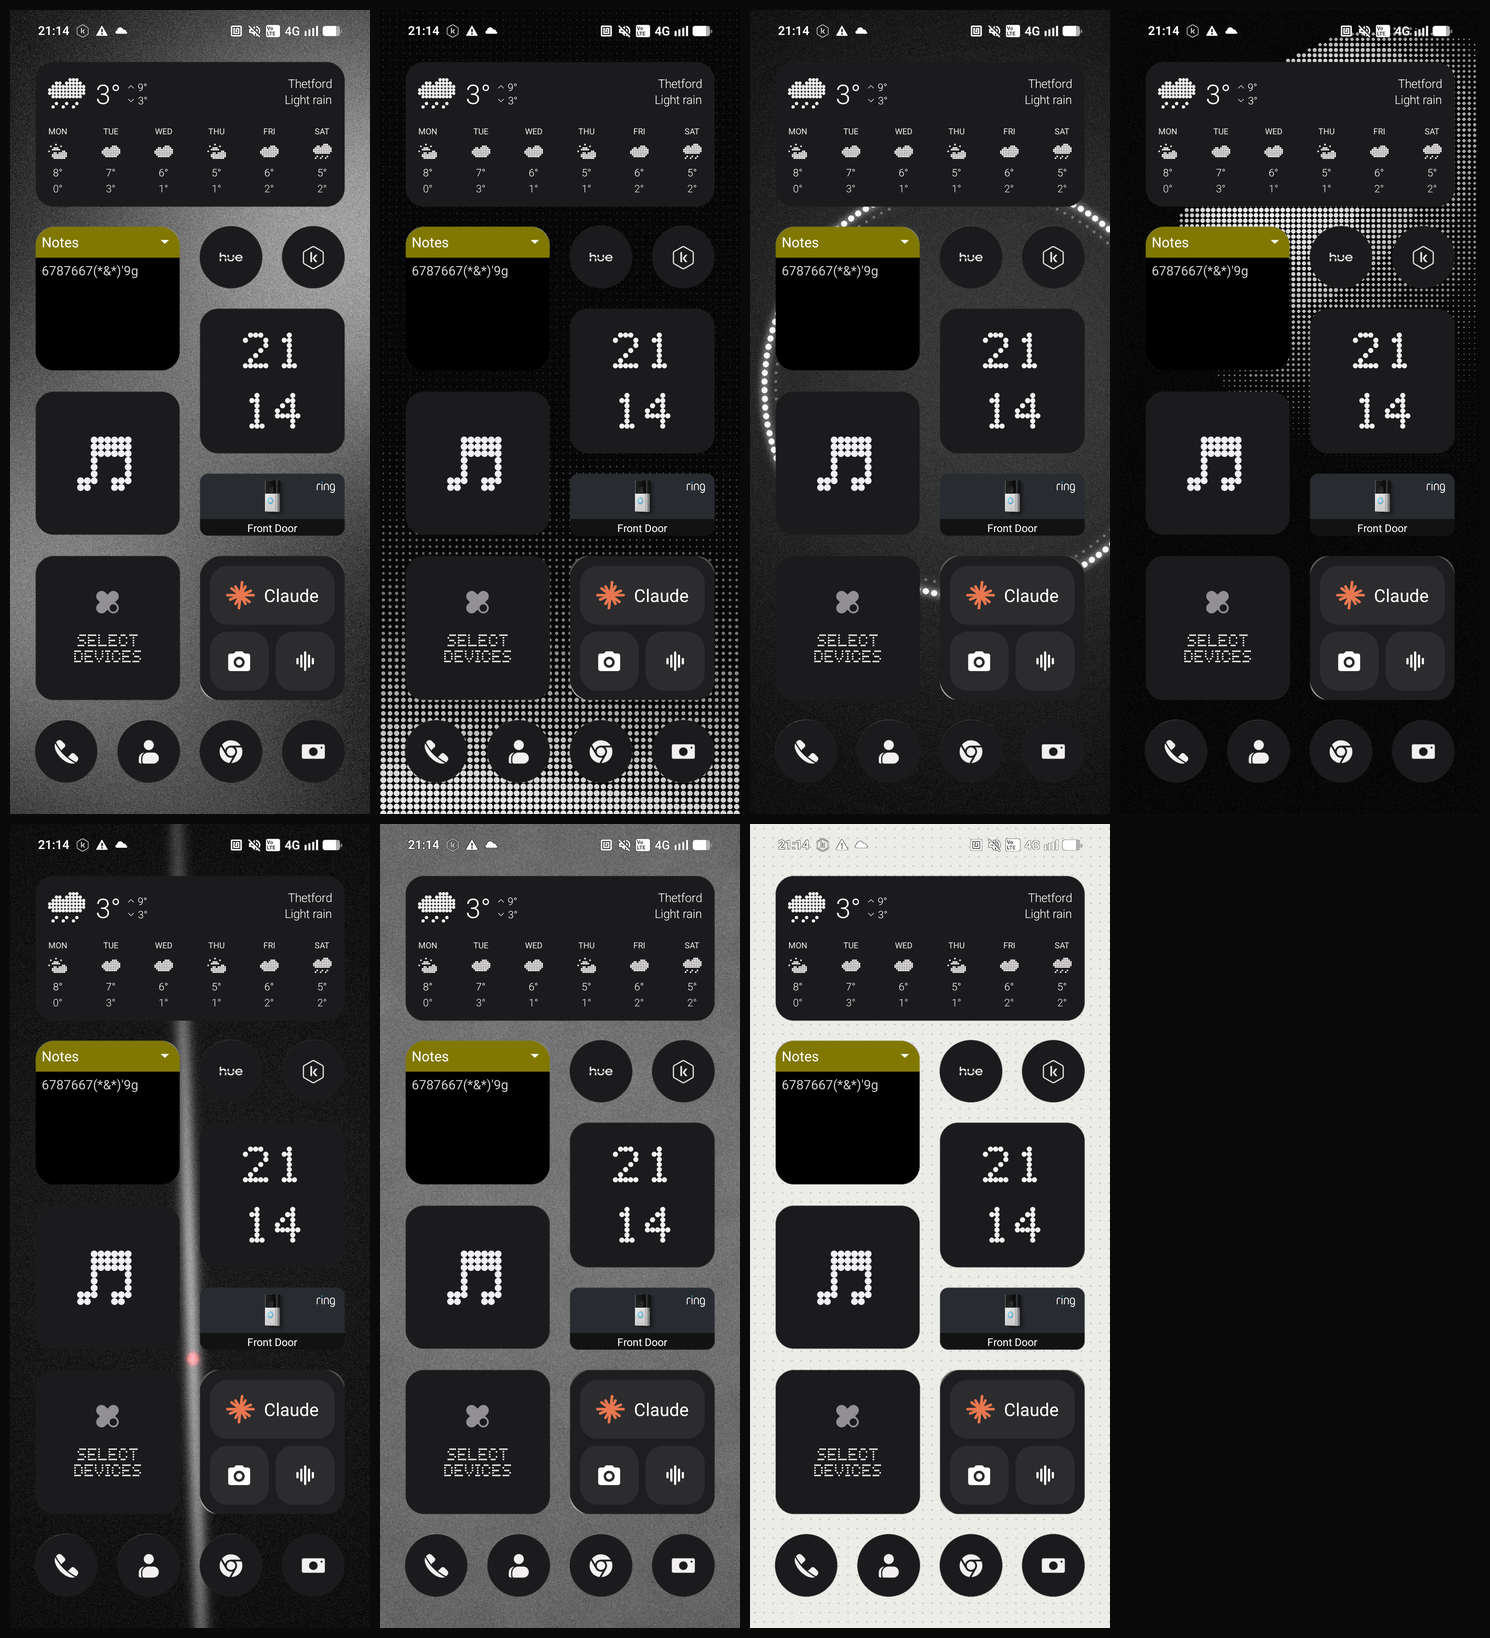
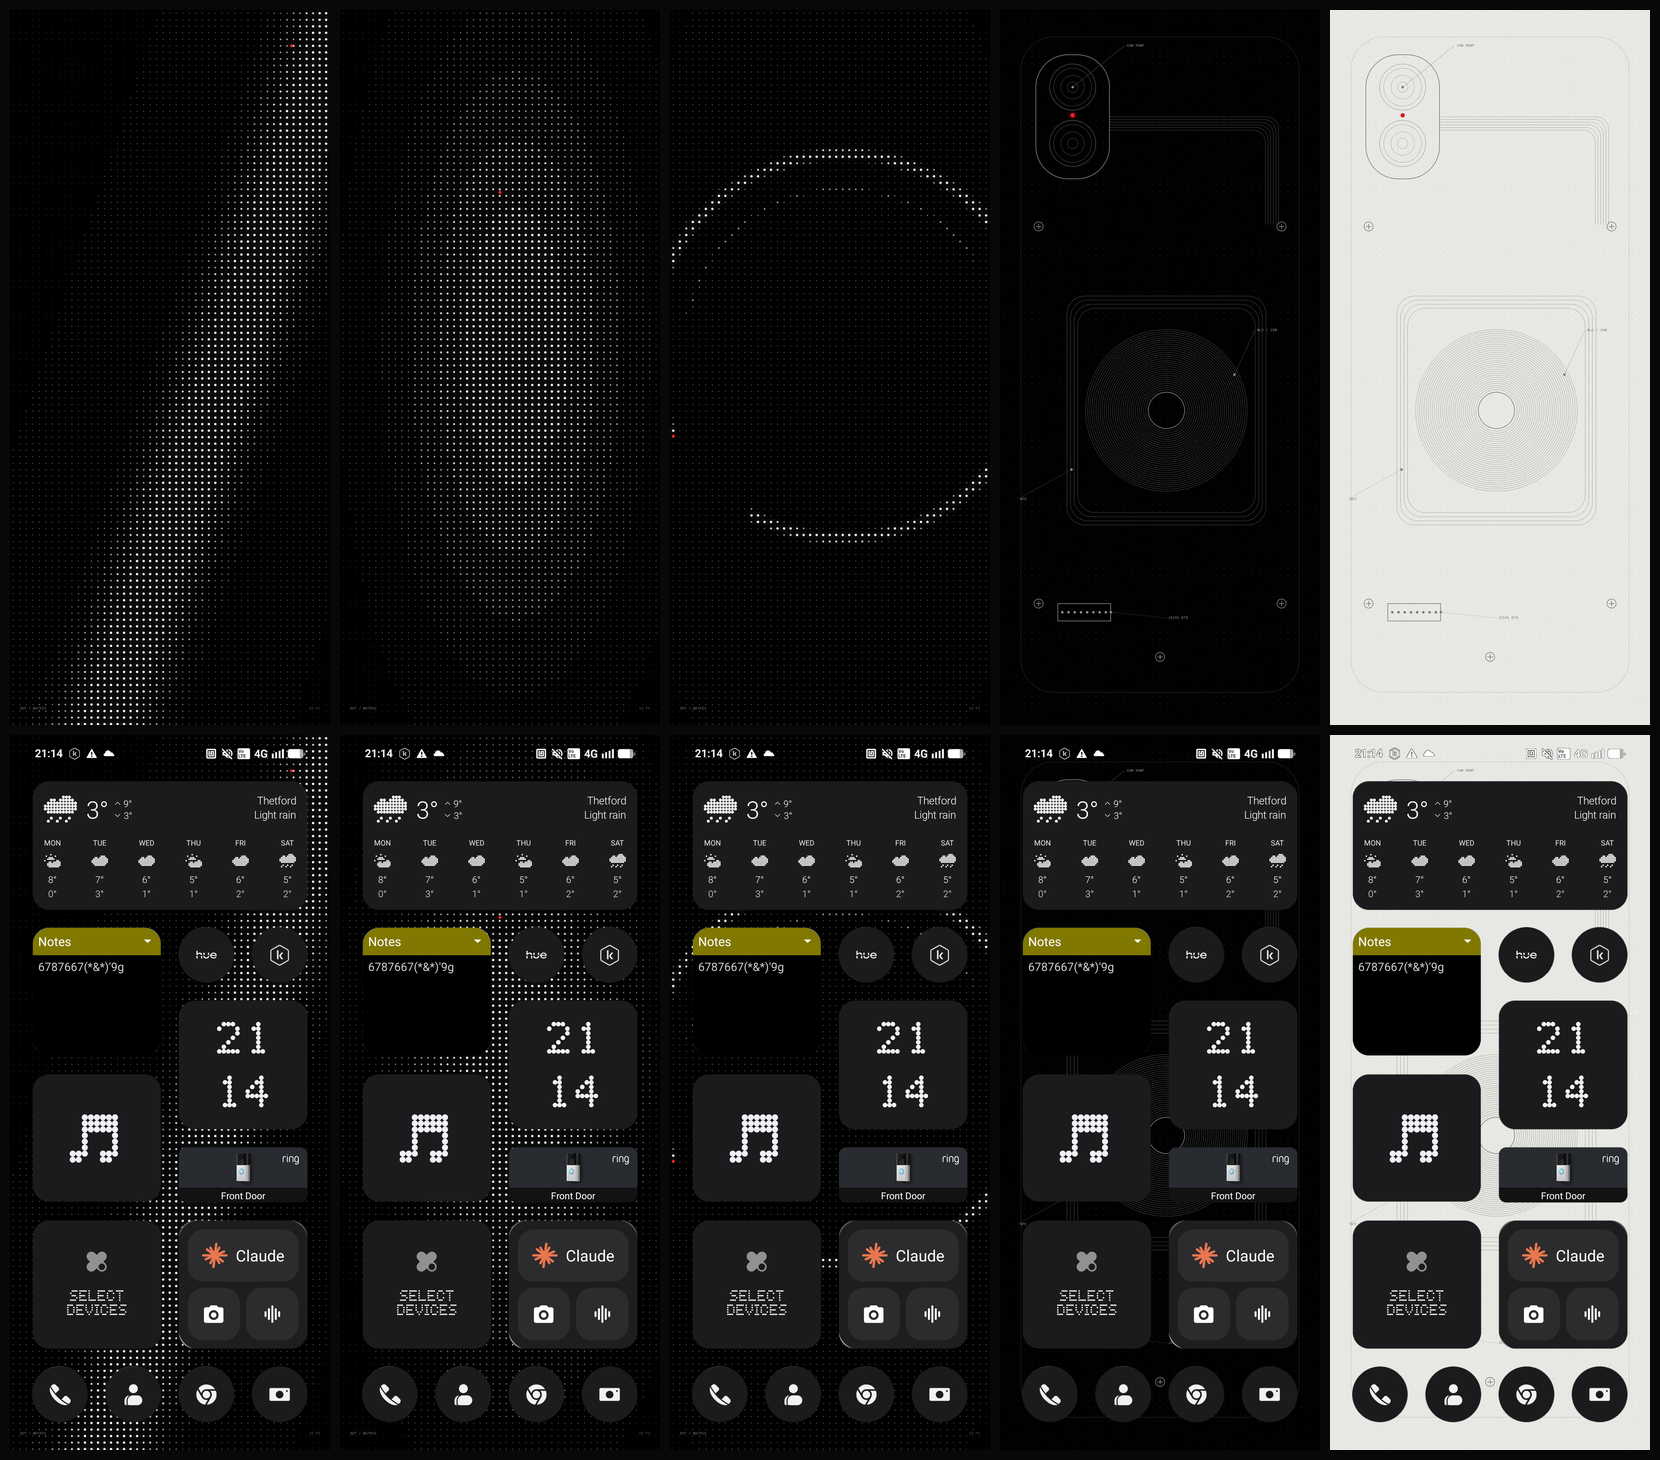
Wallpapers v2: crisp LED dot matrices and Phone (2) line art
Replace the first set with sharper, more technical designs, drawn at 2x
and downscaled: Dot sweep, Dot glow and Glyph ring (full-screen LED
matrices in six brightness steps with bloom on lit dots), Transparent
(line art of the parts under a see-through back) and its Paper
variant. Each has one red indicator dot. Contact sheet shows them
alone and behind the current widget layout.

Claude-Session: https://claude.ai/code/session_01CgA5G1FveVMwdv3fAU8dma

diff --git a/wallpapers/make.py b/wallpapers/make.py
@@ -1,100 +1,205 @@
-import numpy as np
-from PIL import Image, ImageDraw, ImageFilter
-W, H = 1080, 2412
+"""
+Dot-matrix wallpapers for the Nothing Phone (2), 1080 x 2412.
+Everything is drawn at 2x and scaled down so dots and lines stay crisp.
+Run: python3 wallpapers/make.py
+"""
+import math
 import os
-OUT = os.path.dirname(os.path.abspath(__file__)) + '/'
-rng = np.random.default_rng(7)
-yy, xx = np.mgrid[0:H, 0:W].astype(np.float32)
 
-def grain(img, amount=14, fine=True):
-    a = np.asarray(img).astype(np.float32)
-    n = rng.normal(0, amount, (H, W)).astype(np.float32)
-    if not fine:
-        n = np.asarray(Image.fromarray(np.clip(n+128,0,255).astype(np.uint8)).filter(ImageFilter.GaussianBlur(0.7))).astype(np.float32)-128
-    if a.ndim == 3: a += n[..., None]
-    else: a += n
+import numpy as np
+from PIL import Image, ImageDraw, ImageFilter, ImageFont
+
+OUT = os.path.dirname(os.path.abspath(__file__)) + '/'
+FONTS = os.path.join(OUT, '..', 'launcher', 'src', 'main', 'res', 'font')
+W, H = 1080, 2412
+S = 2                       # supersampling
+W2, H2 = W * S, H * S
+RED = (215, 25, 33)
+PITCH = 24                  # LED grid pitch at 1x
+
+
+def mono(size):
+    return ImageFont.truetype(os.path.join(FONTS, 'space_mono.ttf'), size * S)
+
+
+def dots_font(size):
+    return ImageFont.truetype(os.path.join(FONTS, 'doto_black.ttf'), size * S)
+
+
+def canvas(bg=(0, 0, 0)):
+    return Image.new('RGB', (W2, H2), bg)
+
+
+def grid_points(pitch=PITCH):
+    p = pitch * S
+    for gy in range(p // 2, H2, p):
+        for gx in range(p // 2, W2, p):
+            yield gx, gy
+
+
+def dot(d, x, y, r, fill):
+    d.ellipse([x - r, y - r, x + r, y + r], fill=fill)
+
+
+def bloom(img, lit, radius=10, strength=0.9):
+    """Add a soft glow from the lit layer only."""
+    glow = lit.filter(ImageFilter.GaussianBlur(radius * S))
+    a = np.asarray(img).astype(np.float32) + strength * np.asarray(glow).astype(np.float32) \
+        + np.asarray(lit).astype(np.float32)
     return Image.fromarray(np.clip(a, 0, 255).astype(np.uint8))
 
-def save(img, name):
-    img.convert('RGB').save(OUT + name + '.png', optimize=True)
+
+def finish(img, name, grain=2.5):
+    small = img.resize((W, H), Image.LANCZOS)
+    a = np.asarray(small).astype(np.float32)
+    a += np.random.default_rng(3).normal(0, grain, a.shape[:2])[..., None]  # a whisper of grain, against banding
+    Image.fromarray(np.clip(a, 0, 255).astype(np.uint8)).save(OUT + name + '.png', optimize=True)
     print('saved', name)
 
-def glow(cx, cy, r):
-    d = np.sqrt((xx-cx)**2 + (yy-cy)**2) / r
-    return np.exp(-d*d)
 
-# 1. Fog: a soft light bloom drifting through black, heavy film grain
-base = 10 + 150*glow(W*0.95, H*0.28, W*0.75) + 110*glow(W*0.05, H*0.72, W*0.65) + 40*glow(W*0.6, H*1.02, W*0.5)
-save(grain(Image.fromarray(np.clip(base,0,255).astype(np.uint8)), 22), '1-fog')
+def label(d, x, y, text, size=13, fill=(90, 90, 90), anchor='la'):
+    d.text((x * S, y * S), text, font=mono(size), fill=fill, anchor=anchor)
 
-# 2. Halftone horizon: dots swell up from the bottom, like light rising
-img = Image.new('L', (W, H), 6); d = ImageDraw.Draw(img)
-step = 20
-for y in range(step//2, H, step):
-    for x in range(step//2, W, step):
-        t = max(0.0, (y/H - 0.42) / 0.58)
-        wave = 0.08*np.sin(x/W*3.1 + 1.3)
-        f = min(1.0, max(0.0, t**1.6 + wave*t))
-        r = 1.2 + 7.5*f
-        c = int(40 + 190*f)
-        d.ellipse([x-r, y-r, x+r, y+r], fill=c)
-save(grain(img, 10), '2-halftone-horizon')
 
-# 3. Glyph ring: a big dotted ring with a gap, like the Phone (2)'s back
-img = Image.fromarray(np.clip(8 + 30*glow(W*0.7, H*0.45, W*0.9), 0, 255).astype(np.uint8))
-d = ImageDraw.Draw(img)
-cx, cy, R = W*0.62, H*0.47, W*0.58
-for ring, (rad, size, col) in enumerate([(R, 9, 235), (R-34, 4, 120)]):
-    n = int(2*np.pi*rad/26)
-    for i in range(n):
-        a = -np.pi/2 + i*2*np.pi/n
-        deg = (np.degrees(a) + 360) % 360
-        if 115 < deg < 150: continue          # the gap
-        x, y = cx + np.cos(a)*rad, cy + np.sin(a)*rad
-        d.ellipse([x-size, y-size, x+size, y+size], fill=col)
-soft = img.filter(ImageFilter.GaussianBlur(10))
-img = Image.blend(img, soft, 0.35)
-img = Image.fromarray(np.clip(np.asarray(img).astype(np.float32) + 0.6*np.asarray(soft).astype(np.float32), 0, 255).astype(np.uint8))
-save(grain(img, 14), '3-glyph-ring')
+def crosshair(d, x, y, size=14, fill=(70, 70, 70), w=1):
+    x, y, s = x * S, y * S, size * S
+    d.line([x - s, y, x + s, y], fill=fill, width=w * S)
+    d.line([x, y - s, x, y + s], fill=fill, width=w * S)
+    d.ellipse([x - s * 0.45, y - s * 0.45, x + s * 0.45, y + s * 0.45], outline=fill, width=w * S)
 
-# 4. Dot moon: a huge sphere shaded only with dots
-img = Image.new('L', (W, H), 5); d = ImageDraw.Draw(img)
-mx, my, MR = W*0.78, H*0.30, W*0.62
-lx, ly, lz = -0.55, -0.45, 0.70
-step = 16
-for y in range(step//2, H, step):
-    for x in range(step//2, W, step):
-        dx, dy = (x-mx)/MR, (y-my)/MR
-        rr = dx*dx + dy*dy
-        if rr > 1: continue
-        dz = np.sqrt(1-rr)
-        lum = max(0.0, dx*lx + dy*ly + dz*lz)
-        lum = lum**1.3
-        r = 0.6 + 6.6*lum
-        d.ellipse([x-r, y-r, x+r, y+r], fill=int(60 + 190*lum))
-save(grain(img, 12), '4-dot-moon')
 
-# 5. Signal: near black, one soft beam of light down the gap between the widgets, and a red dot
-base = 6 + 22*glow(W*0.5, H*0.5, W*1.2)
-gap = W*0.5
-beam = 135*np.exp(-((xx - (gap + (yy-H*0.55)*0.03))/26)**2) * (0.25 + 0.75*glow(gap, H*0.62, H*0.42))
-rgb = np.stack([base+beam]*3, -1)
-red = glow(gap + (H*0.665-H*0.55)*0.03, H*0.665, 15)
-rgb[..., 0] += 255*red; rgb[..., 1] += 25*red; rgb[..., 2] += 35*red
-img = Image.fromarray(np.clip(rgb, 0, 255).astype(np.uint8))
-save(grain(img, 16), '5-signal')
+# --------------------------------------------------------------------------------------------
+# 2. TRANSPARENT — line art of the parts under a see-through back
+def transparent(light=False):
+    bg = (232, 232, 228) if light else (0, 0, 0)
+    ink = (150, 150, 146) if light else (88, 88, 88)
+    ink2 = (120, 120, 116) if light else (140, 140, 140)
+    gridc = (214, 214, 209) if light else (30, 30, 30)
+    img = canvas(bg)
+    d = ImageDraw.Draw(img)
+    for gx, gy in grid_points():
+        dot(d, gx, gy, 1.2 * S, gridc)
+    lw = S
 
-# 6. Concrete: mid-grey, rough, industrial; dark widgets pop off it
-n1 = rng.normal(0, 1, (H//8, W//8)).astype(np.float32)
-low = np.asarray(Image.fromarray(np.clip(n1*40+128,0,255).astype(np.uint8)).resize((W, H), Image.BICUBIC).filter(ImageFilter.GaussianBlur(30))).astype(np.float32)
-base = 118 + (low-128)*0.5 - 40*(1-glow(W*0.5, H*0.45, H*0.75))
-save(grain(Image.fromarray(np.clip(base,0,255).astype(np.uint8)), 20, fine=False), '6-concrete')
+    # wireless charging coil: a tight spiral of circles
+    cx, cy = W2 * 0.52, H2 * 0.56
+    for i in range(30):
+        r = (70 + i * 7) * S
+        d.ellipse([cx - r, cy - r, cx + r, cy + r], outline=ink, width=lw)
+    d.ellipse([cx - 62 * S, cy - 62 * S, cx + 62 * S, cy + 62 * S], outline=ink2, width=2 * S)
+    # NFC antenna: rounded loops around it
+    for i in range(4):
+        m = (300 + i * 12) * S
+        d.rounded_rectangle([cx - m, cy - m * 1.15, cx + m, cy + m * 1.15], radius=60 * S, outline=ink, width=lw)
+    # camera module, top left
+    mx, my = 120 * S, 150 * S
+    d.rounded_rectangle([mx, my, mx + 250 * S, my + 420 * S], radius=110 * S, outline=ink2, width=2 * S)
+    for k, ly in enumerate([my + 110 * S, my + 300 * S]):
+        for rr in (78, 64, 40, 18):
+            d.ellipse([mx + 125 * S - rr * S, ly - rr * S, mx + 125 * S + rr * S, ly + rr * S], outline=ink if rr != 78 else ink2, width=lw)
+    # ribbon cables with rounded bends
+    for j in range(6):
+        off = j * 9 * S
+        x0, y0 = mx + 250 * S, my + 210 * S + off
+        x1 = W2 - 140 * S - off
+        d.line([x0, y0, x1 - 40 * S, y0], fill=ink, width=lw)
+        d.arc([x1 - 80 * S, y0, x1, y0 + 80 * S], 270, 360, fill=ink, width=lw)
+        d.line([x1, y0 + 40 * S, x1, H2 * 0.30], fill=ink, width=lw)
+    # mid-frame with screws
+    fx0, fy0, fx1, fy1 = 70 * S, 90 * S, W2 - 70 * S, H2 - 110 * S
+    d.rounded_rectangle([fx0, fy0, fx1, fy1], radius=110 * S, outline=gridc if not light else (205, 205, 200), width=2 * S)
+    for sx, sy in [(fx0 + 60 * S, fy0 + 640 * S), (fx1 - 60 * S, fy0 + 640 * S), (fx0 + 60 * S, fy1 - 300 * S), (fx1 - 60 * S, fy1 - 300 * S),
+                   (W2 * 0.5, fy1 - 120 * S)]:
+        d.ellipse([sx - 16 * S, sy - 16 * S, sx + 16 * S, sy + 16 * S], outline=ink2, width=2 * S)
+        d.line([sx - 9 * S, sy, sx + 9 * S, sy], fill=ink2, width=2 * S)
+        d.line([sx, sy - 9 * S, sx, sy + 9 * S], fill=ink2, width=2 * S)
+    # battery connector block and test pads
+    bx, by = W2 * 0.18, H2 * 0.83
+    d.rectangle([bx, by, bx + 180 * S, by + 60 * S], outline=ink2, width=2 * S)
+    for k in range(8):
+        dot(d, bx + (16 + k * 21) * S, by + 30 * S, 4 * S, ink2)
+    # labels with leader lines
+    def callout(px, py, tx, ty, text):
+        dot(d, px * S, py * S, 4 * S, ink2)
+        d.line([px * S, py * S, tx * S, ty * S], fill=ink, width=lw)
+        label(d, tx + 8, ty - 10, text, 12, ink2)
+    callout(int(cx / S) + 230, int(cy / S) - 120, 860, 1080, 'WLC / 15W')
+    callout(int(cx / S) - 320, int(cy / S) + 200, 60, 1650, 'NFC')
+    callout(245, 260, 420, 120, 'CAM 50MP')
+    callout(int(bx / S) + 180, int(by / S) + 30, 560, 2050, 'J1101 BTB')
+    # one red LED, like the recording light
+    lit = canvas()
+    dot(ImageDraw.Draw(lit), (mx + 125 * S), my + 205 * S, 7 * S, RED)
+    img = bloom(img, lit, 8, 1.0) if not light else Image.composite(lit, img, lit.convert('L').point(lambda v: 255 if v > 10 else 0))
+    finish(img, '5-transparent-paper' if light else '4-transparent')
 
-# 7. Paper: Nothing's off-white with a light dot grid
-img = Image.new('RGB', (W, H), (236, 236, 232)); d = ImageDraw.Draw(img)
-step = 28
-for y in range(step//2, H, step):
-    for x in range(step//2, W, step):
-        d.ellipse([x-2.2, y-2.2, x+2.2, y+2.2], fill=(206, 206, 200))
-d.ellipse([W*0.84-9, H*0.10-9, W*0.84+9, H*0.10+9], fill=(215, 25, 33))
-save(grain(img, 6), '7-paper')
+
+# --------------------------------------------------------------------------------------------
+# Lit LED matrices: the whole screen is a dot matrix whose brightness follows a light field,
+# in six real LED steps. The gaps between widgets show crisp, glowing dots.
+LEVELS = [44, 66, 98, 142, 196, 246]
+
+
+def lit_matrix(field, name, pitch=22, red=None, extra=None):
+    img = canvas()
+    d = ImageDraw.Draw(img)
+    lit = canvas()
+    dl = ImageDraw.Draw(lit)
+    p = pitch * S
+    for gy in range(p // 2, H2, p):
+        for gx in range(p // 2, W2, p):
+            f = max(0.0, min(1.0, field(gx / W2, gy / H2)))
+            level = min(5, int(f * 6))
+            c = LEVELS[level]
+            r = (1.45 + 0.42 * level) * S
+            if level >= 3:
+                dot(dl, gx, gy, r, (c, c, c))      # bright dots glow
+            else:
+                dot(d, gx, gy, r, (c, c, c))
+    if red:
+        dot(dl, red[0] * W2, red[1] * H2, 4.6 * S, RED)
+    img = bloom(img, lit, 7, 0.55)
+    if extra:
+        extra(ImageDraw.Draw(img))
+    finish(img, name, 1.5)
+
+
+def sweep(x, y):
+    # A diagonal band of light from top right down to the lower left, like stage light through haze
+    band = math.exp(-((x + 0.75 * y - 1.05) / 0.20) ** 2)          # top right to lower left
+    halo = math.exp(-((x + 0.75 * y - 1.05) / 0.55) ** 2) * 0.35   # soft light either side
+    return 0.06 + 0.94 * max(band, halo)
+
+
+def glow(x, y):
+    # Light pooling behind the middle of the screen, falling off to the edges
+    d = math.hypot((x - 0.55) / 0.9, (y - 0.47) / 1.05)
+    return 0.06 + 0.94 * math.exp(-(d / 0.42) ** 2)
+
+
+def ring_xl(x, y):
+    # A huge Glyph ring that runs through the gaps, over a faint ambient light
+    px, py = x * W, y * H
+    cx, cy, R = W * 0.54, H * 0.47, W * 0.60
+    dist = math.hypot(px - cx, py - cy)
+    ang = math.degrees(math.atan2(py - cy, px - cx)) % 360
+    ring = math.exp(-((dist - R) / 26) ** 2)
+    if 120 < ang < 152:
+        ring *= 0.05
+    inner = math.exp(-((dist - R * 0.82) / 12) ** 2) * (1 if 190 < ang < 330 else 0) * 0.55
+    ambient = 0.10 + 0.22 * math.exp(-(math.hypot(x - 0.5, y - 0.5) / 0.6) ** 2)
+    return max(ambient, ring, inner)
+
+
+def labels(d):
+    label(d, 34, 2346, 'DOT / MATRIX', 12, (120, 120, 120))
+    label(d, W - 34, 2346, '22 PX', 12, (80, 80, 80), 'ra')
+
+
+if __name__ == '__main__':
+    lit_matrix(sweep, '1-dot-sweep', red=(0.88, 0.05), extra=labels)
+    lit_matrix(glow, '2-dot-glow', red=(0.5, 0.255), extra=labels)
+    a = math.radians(152)
+    lit_matrix(ring_xl, '3-glyph-ring', red=(0.54 + math.cos(a) * 0.60 * W / W, (0.47 * H + math.sin(a) * 0.60 * W) / H), extra=labels)
+    transparent()
+    transparent(light=True)
